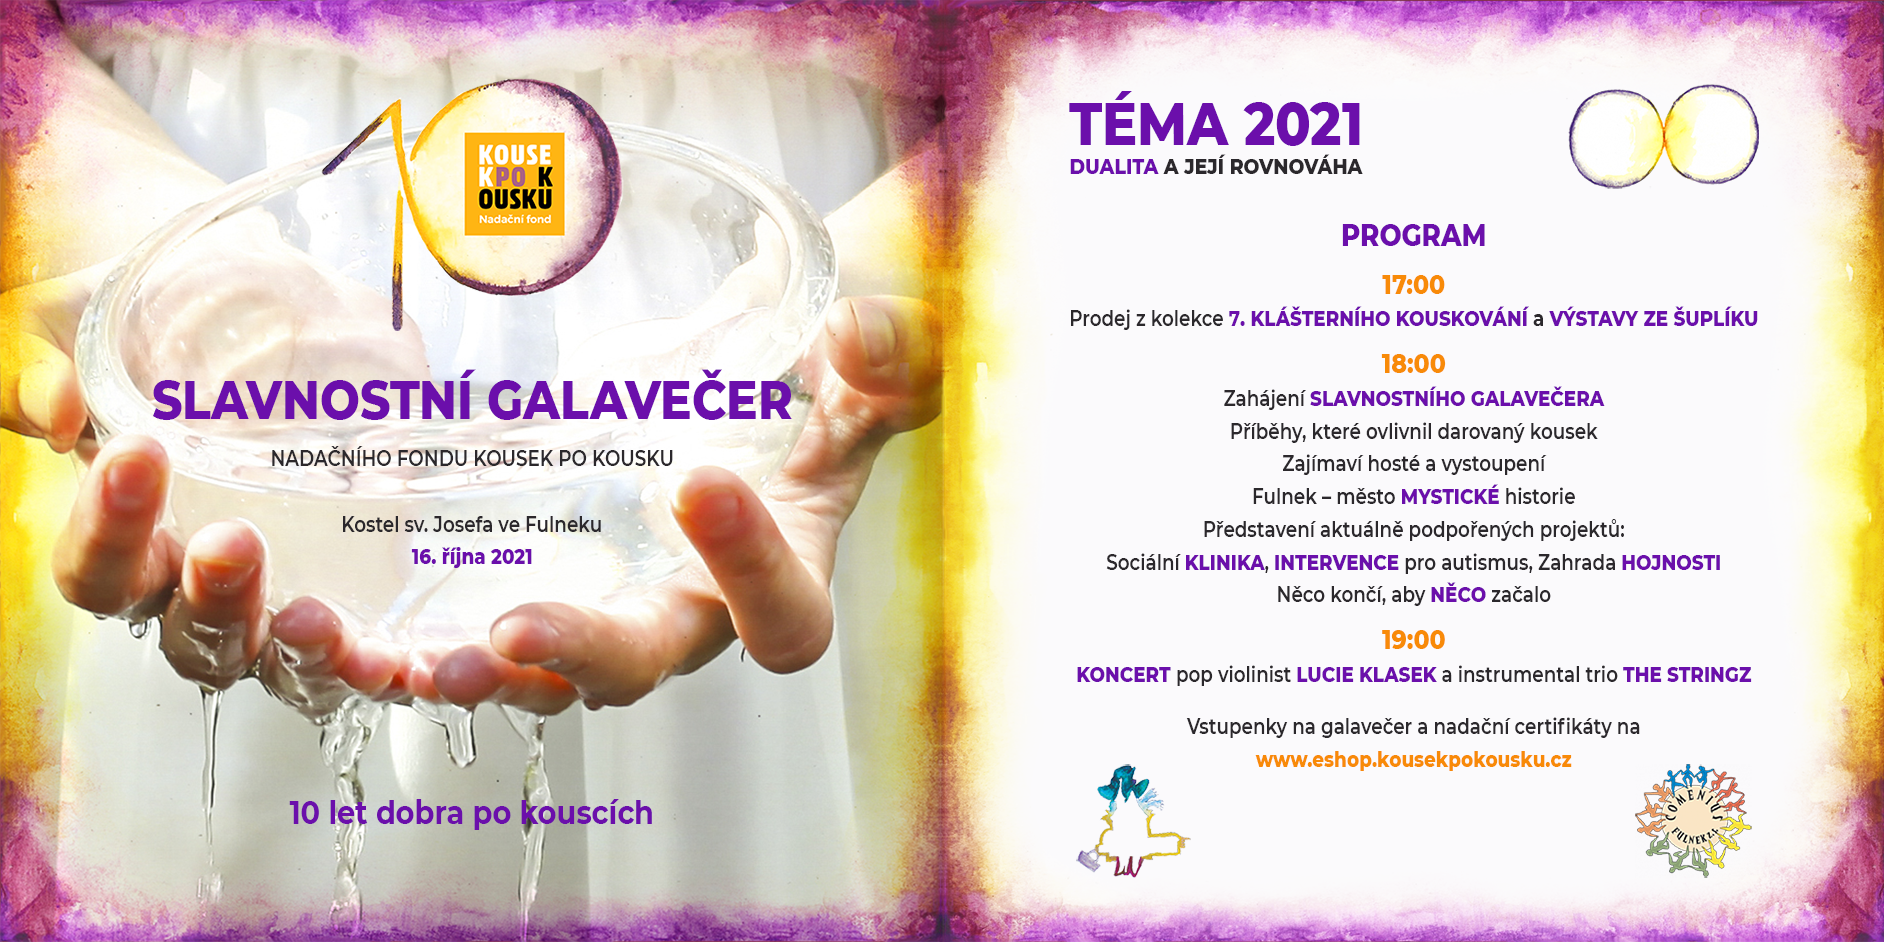
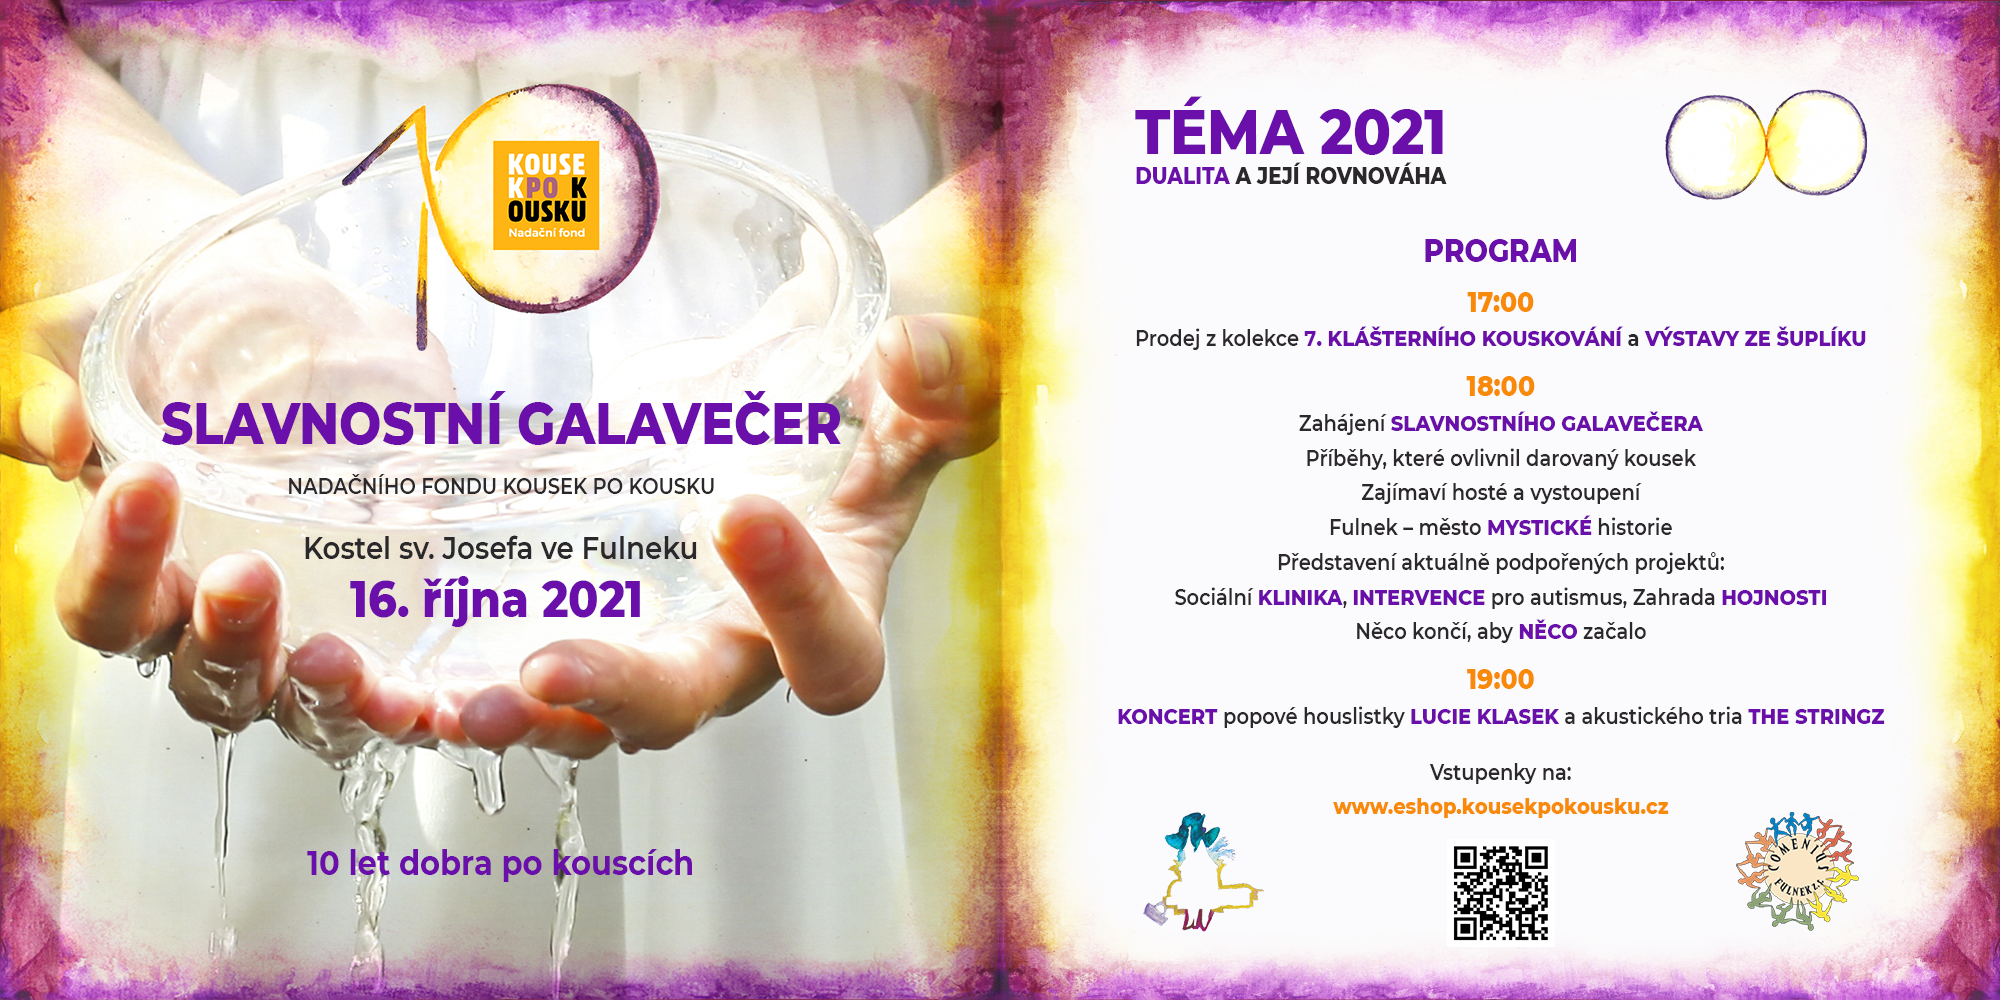
Zmeny 24. Links, fb group, program

diff --git a/src/components/footer.tsx b/src/components/footer.tsx
@@ -28,7 +28,7 @@ const Footer = ({ }) => {
                 <a href="https://www.instagram.com/nadacnifondkousekpokousku/" className="ig-link">
                     <svg xmlns="http://www.w3.org/2000/svg" width="24" height="24" viewBox="0 0 24 24" fill="white"><path d="M12 2.163c3.204 0 3.584.012 4.85.07 3.252.148 4.771 1.691 4.919 4.919.058 1.265.069 1.645.069 4.849 0 3.205-.012 3.584-.069 4.849-.149 3.225-1.664 4.771-4.919 4.919-1.266.058-1.644.07-4.85.07-3.204 0-3.584-.012-4.849-.07-3.26-.149-4.771-1.699-4.919-4.92-.058-1.265-.07-1.644-.07-4.849 0-3.204.013-3.583.07-4.849.149-3.227 1.664-4.771 4.919-4.919 1.266-.057 1.645-.069 4.849-.069zm0-2.163c-3.259 0-3.667.014-4.947.072-4.358.2-6.78 2.618-6.98 6.98-.059 1.281-.073 1.689-.073 4.948 0 3.259.014 3.668.072 4.948.2 4.358 2.618 6.78 6.98 6.98 1.281.058 1.689.072 4.948.072 3.259 0 3.668-.014 4.948-.072 4.354-.2 6.782-2.618 6.979-6.98.059-1.28.073-1.689.073-4.948 0-3.259-.014-3.667-.072-4.947-.196-4.354-2.617-6.78-6.979-6.98-1.281-.059-1.69-.073-4.949-.073zm0 5.838c-3.403 0-6.162 2.759-6.162 6.162s2.759 6.163 6.162 6.163 6.162-2.759 6.162-6.163c0-3.403-2.759-6.162-6.162-6.162zm0 10.162c-2.209 0-4-1.79-4-4 0-2.209 1.791-4 4-4s4 1.791 4 4c0 2.21-1.791 4-4 4zm6.406-11.845c-.796 0-1.441.645-1.441 1.44s.645 1.44 1.441 1.44c.795 0 1.439-.645 1.439-1.44s-.644-1.44-1.439-1.44z" /></svg>
                 </a>
-                <a href="https://www.facebook.com/groups/1260444491039723" className="fb-group-link">
+                <a href="https://www.facebook.com/dobrovolniciprozahraduhojnosti.cz/" className="fb-group-link">
                     {/* <svg xmlns="http://www.w3.org/2000/svg" width="24" height="24" viewBox="0 0 24 24" fill="white"><path d="M22.675 0h-21.35c-.732 0-1.325.593-1.325 1.325v21.351c0 .731.593 1.324 1.325 1.324h11.495v-9.294h-3.128v-3.622h3.128v-2.671c0-3.1 1.893-4.788 4.659-4.788 1.325 0 2.463.099 2.795.143v3.24l-1.918.001c-1.504 0-1.795.715-1.795 1.763v2.313h3.587l-.467 3.622h-3.12v9.293h6.116c.73 0 1.323-.593 1.323-1.325v-21.35c0-.732-.593-1.325-1.325-1.325z" /></svg> */}
                     <svg xmlns="http://www.w3.org/2000/svg" fill="white" enable-background="new 0 0 24 24" height="24px" viewBox="0 0 24 24" width="24px" ><g><rect fill="none" height="24" width="24" /></g><g><g><g><g><path d="M16,13c3.09-2.81,6-5.44,6-7.7C22,3.45,20.55,2,18.7,2c-1.04,0-2.05,0.49-2.7,1.25C15.34,2.49,14.34,2,13.3,2 C11.45,2,10,3.45,10,5.3C10,7.56,12.91,10.19,16,13z M13.3,4c0.44,0,0.89,0.21,1.18,0.55L16,6.34l1.52-1.79 C17.81,4.21,18.26,4,18.7,4C19.44,4,20,4.56,20,5.3c0,1.12-2.04,3.17-4,4.99c-1.96-1.82-4-3.88-4-4.99C12,4.56,12.56,4,13.3,4z" /><path d="M19,16h-2c0-1.2-0.75-2.28-1.87-2.7L8.97,11H1v11h6v-1.44l7,1.94l8-2.5v-1C22,17.34,20.66,16,19,16z M3,20v-7h2v7H3z M13.97,20.41L7,18.48V13h1.61l5.82,2.17C14.77,15.3,15,15.63,15,16c0,0-1.99-0.05-2.3-0.15l-2.38-0.79l-0.63,1.9l2.38,0.79 c0.51,0.17,1.04,0.26,1.58,0.26H19c0.39,0,0.74,0.23,0.9,0.56L13.97,20.41z" /></g></g></g></g></svg>
                     <p>DOBROvolníci</p>

diff --git a/src/pages/program.tsx b/src/pages/program.tsx
@@ -5,7 +5,7 @@ import { StaticImage } from 'gatsby-plugin-image';
 
 
 const ProgramPage = () => {
-    const title = 'Program slavnostního galavečera a&nbsp;koncertů The&nbsp;Stringz' as const;
+    const title = 'Program slavnostního galavečera a&nbsp;koncertu pro kousek' as const;
     return (
         <Layout title="Program slavnostního galavečera a&nbsp;koncertů The&nbsp;Stringz | Nadační fond Kousek po Kousku">
             <main className="program">
@@ -24,12 +24,12 @@ const ProgramPage = () => {
                     <p className="item"><span className="highlighted">Sociální klinika, intervence pro autismus, Zahrada Hojnosti</span></p>
                     <p className="item">Něco končí, aby <span className="highlighted">NĚCO</span> začalo</p>
                     <time dateTime="19:00">19:00</time>
-                    <p className="item"><span className="highlighted">koncert</span> popové houslistky <span className="highlighted">Lucie Klasek</span> a pop classical bandu <span className="highlighted">The Stringz</span></p>
-                    <p className="last">Vstupenky na galavečer a nadační certifikáty koupíte <a href="https://eshop.kousekpokousku.cz/">zde.</a></p>
+                    <p className="item"><span className="highlighted">koncert</span> popové houslistky <span className="highlighted">Lucie Klasek</span> a akustického tria <span className="highlighted">The Stringz</span></p>
+                    <p className="last">Vstupenky na galavečer koupíte <a className="link" href="https://eshop.kousekpokousku.cz/vstupenky">zde.</a></p>
                 </section>
                 <section className="section section-image">
                     <a href="/Program slavnostního galavečera.png">
-                        <StaticImage className='img' src="../images/Program slavnostního galavečera.png" alt='Program galavečera' layout='constrained' placeholder='blurred' />
+                        <StaticImage className='img' src="../../static/Program slavnostního galavečera.png" alt='Program galavečera' layout='constrained' placeholder='blurred' />
                     </a>
                 </section>
                 <section className="section section-image">

diff --git a/src/pages/index.tsx b/src/pages/index.tsx
@@ -298,7 +298,7 @@ const IndexPage = () => {
           <p className="text">
             Letošní rok je&nbsp;pro Nadační fond Kousek po&nbsp;kousku jubilejní. 10&nbsp;let kousků dobra připomeneme 16.&nbsp;října tohoto roku v&nbsp;kostele sv.&nbsp;Josefa ve&nbsp;Fulneku na&nbsp;Slavnostním Galavečeru. Zrekapitulujeme dosavadní počiny, připomeneme některé z&nbsp;podpořených projektů, přivítáme řadu hostů a&nbsp;prozradíme další plány.
           </p>
-          <p className="text">Součástí Galavečera bude koncert popové houslistky <a className="inline" href="https://www.youtube.com/watch?v=-49HE-gAxok">Lucie Klasek &amp; The Stringz.</a> The Stringz zahrají pro Kousek ještě jednou, v&nbsp;neděli 17.&nbsp;října opět v kostele sv.&nbsp;Josefa ve&nbsp;Fulneku. Speciálním hostem nedělního Koncertu pro Kousek bude Tomáš Savka.</p>
+          <p className="text">Součástí Galavečera bude koncert popové houslistky <a className="inline" href="https://www.youtube.com/watch?v=-49HE-gAxok">Lucie Klasek &amp; The Stringz.</a><br />The Stringz zahrají pro Kousek ještě jednou, v&nbsp;neděli 17.&nbsp;října opět v kostele sv.&nbsp;Josefa ve&nbsp;Fulneku. Speciálním hostem nedělního Koncertu pro Kousek bude Tomáš Savka.</p>
           {/* <a href="/" className="button section-button buy-button">
             koupit vstupenku
           </a> */}

diff --git a/src/pages/zahrada-hojnosti.tsx b/src/pages/zahrada-hojnosti.tsx
@@ -166,7 +166,7 @@ const ZahradaPage: React.FC<ZahradaPageProps> = ({ }): JSX.Element => {
                             </p>
 
                         <p className="text">
-                            <strong>Chcete&nbsp;se&nbsp;zapojit?</strong> Přihlaste&nbsp;se do FB&nbsp;skupiny <a href="https://www.facebook.com/groups/1260444491039723">Dobrovolníci&nbsp;pro&nbsp;kousek</a>, kde sdělujeme aktuální informace o&nbsp;termínech a&nbsp;akcích, nebo napište na&nbsp;<a className="mail" href="mailto:info@kousekpokousku.cz">info@kousekpokousku.cz</a>.
+                            <strong>Chcete&nbsp;se&nbsp;zapojit?</strong> Navštivte&nbsp;FB&nbsp;stránku <a href="https://www.facebook.com/dobrovolniciprozahraduhojnosti.cz/">Dobrovolníci&nbsp;Zahrady&nbsp;Hojnosti</a>, kde sdělujeme aktuální informace o&nbsp;termínech a&nbsp;akcích, nebo napište na&nbsp;<a className="mail" href="mailto:info@kousekpokousku.cz">info@kousekpokousku.cz</a>.
                         </p>
                         <p className="subtitle green" ><strong>Rádi Vás přivítáme</strong>.</p>
                     </li>

diff --git a/src/styles/pages/index.scss b/src/styles/pages/index.scss
@@ -126,9 +126,11 @@ section.intro-section {
     font-weight: 600;
     display: block;
     color: $main-text-red;
+    text-decoration: underline;
     &:hover {
-      text-decoration: underline;
-    }
+      filter: brightness(0.9);
+  }
+    
   }
   & > * + * {
     margin-top: 5em;
@@ -265,9 +267,11 @@ section.aktuality {
       font-weight: 600;
       font-size: 1.5em;
       margin-right: 90px;
+      text-decoration: underline;
       &:hover {
-        text-decoration: underline;
-      }
+        filter: brightness(0.9);
+    }
+      
     }
   }
 }
@@ -328,7 +332,8 @@ section.sponzori {
     color: $main-text-red;
 
   font-weight: 700;
+  text-decoration: underline;
   &:hover {
-    text-decoration: underline;
-  }
+    filter: brightness(0.9);
+}
 }

diff --git a/src/styles/components/footer.scss b/src/styles/components/footer.scss
@@ -52,8 +52,10 @@ footer {
   }
   a {
     display: block;
+    text-decoration: underline;
     &:hover {
-      text-decoration: underline;
+      filter: brightness(0.9);
+
     }
   }
   p > a {
@@ -109,10 +111,14 @@ footer {
       color: white;
       font-weight: 600;
       text-align: center;
+      text-decoration: none;
+      &:hover {
+        text-decoration: underline;
+        filter: brightness(0.95);
     }
-    &:hover p {
-      text-decoration: underline;
     }
+    // &:hover p {
+    // }
     & > * + * {
       margin-top: 0.5em;
     }
@@ -124,5 +130,9 @@ footer {
     a {
       font-weight: 600;
     }
+  }
+
+  a.fb-group-link {
+    text-decoration: none;
   }
 }

diff --git a/src/styles/pages/program.scss b/src/styles/pages/program.scss
@@ -32,6 +32,11 @@ $kouskovani-orange: #f88a08;
     a {
       font-weight: 800;
       color: $kouskovani-orange;
+      text-decoration: underline;
+      &:hover {
+        filter: brightness(0.9);
+
+      }
     }
   }
 }
@@ -42,6 +47,11 @@ main.program {
     flex-direction: column;
     align-items: center;
     justify-content: center;
+    a {
+      &:hover {
+        filter: none !important;
+      }
+    }
     .img {
       max-width: 1200px;
 

diff --git a/src/styles/components/aktualita.scss b/src/styles/components/aktualita.scss
@@ -41,15 +41,17 @@
   }
   a {
     font-weight: 600;
+    text-decoration: underline;
     &:hover {
-      text-decoration: underline;
-    }
+            filter: brightness(0.9);
+        }
   }
   .link {
     font-size: 1.1em;
+    text-decoration: underline;
     &:hover {
-      text-decoration: underline;
-    }
+            filter: brightness(0.9);
+        }
   }
 }
 

diff --git a/src/styles/global.scss b/src/styles/global.scss
@@ -114,8 +114,12 @@ p.text.green, p.blue, .subtitle.blue {
 
 main, section, .section {
 
-    a:not(.button):hover {
+    a:not(.button) {
         text-decoration: underline;
+
+        &:hover {
+            filter: brightness(0.9);
+        }
     }
 }
 

diff --git a/src/styles/pages/zahrada.scss b/src/styles/pages/zahrada.scss
@@ -96,8 +96,10 @@ main.zahrada {
       &:visited {
         color: darken($main-green, 6);
       }
+      text-decoration: underline;
       &:hover {
-        text-decoration: underline;
+        filter: brightness(0.9);
+
       }
     }
   }

diff --git a/src/styles/pages/kontakt.scss b/src/styles/pages/kontakt.scss
@@ -21,8 +21,9 @@ main.kontakt {
       display: block;
     }
     &:hover {
-      text-decoration: underline;
-    }
+      filter: brightness(0.9);
+  }
+  text-decoration: underline;
   }
   div.kontakt {
     // margin: 0 auto;
